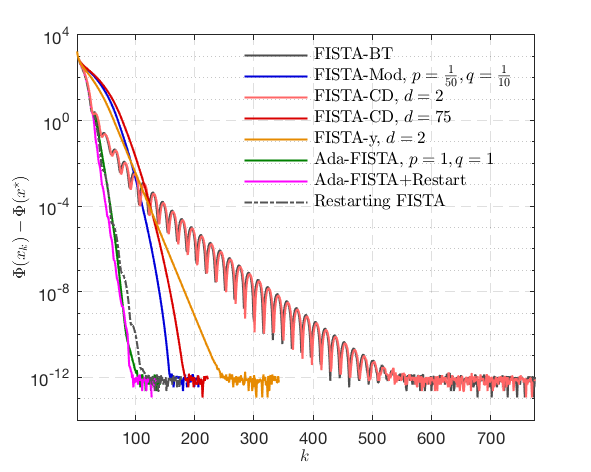
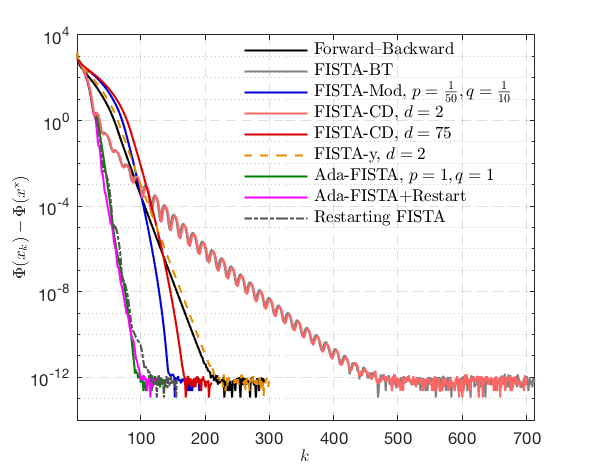
add fbs

diff --git a/codes/inverse-problem/func_FBS.m b/codes/inverse-problem/func_FBS.m
@@ -1,5 +1,5 @@
-function [x, its, ek, phik] = func_FISTA_y(para, GradF, ProxJ, ObjPhi, J, d)
-% FISTA with y
+function [x, its, ek, phik] = func_FBS(para, GradF, ProxJ, ObjPhi, J)
+% Forward--Backward splitting
 itsprint(sprintf('        step %08d: norm(ek) = %.3e', 1,1), 1);
 w = 10;
 if strcmp(J, 'infty'); w = 1e3; end
@@ -10,7 +10,7 @@ mu = para.mu;
 n = para.n;
 % f = para.f;
 
-gamma = 1 *beta;
+gamma = 1.99 *beta;
 tau = mu*gamma;
 
 if strcmp(J, 'mc')
@@ -22,7 +22,6 @@ end
 x0 = zeros(prod(n), 1);
 
 x = x0;
-y = x0;
 
 tol = 1e-10;
 maxits = 1e5;
@@ -30,22 +29,12 @@ maxits = 1e5;
 ek = zeros(1, maxits);
 phik = zeros(1, maxits);
 
-t = 1;
-
 its = 1;
 while(its<maxits)
     
     x_old = x;
-    y_old = y;
     
-    x = FBS(y, gamma, tau);
-    
-    t_old = t;
-    t = (its+d-1) /d;
-    a = (t_old-1) /t;
-    y = x + 1*a*(x-y_old);
-    
-    % d = min(d*1.002^its, 75);
+    x = FBS(x, gamma, tau);
     
     %%%%%%% stop?
     normE = norm(x_old-x, 'fro');
